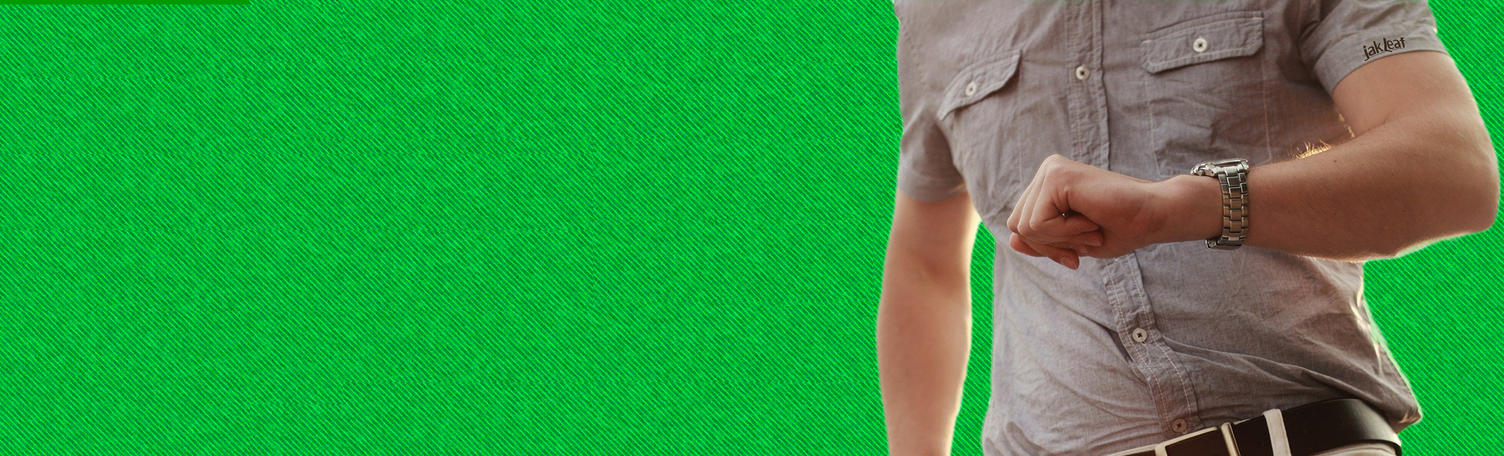
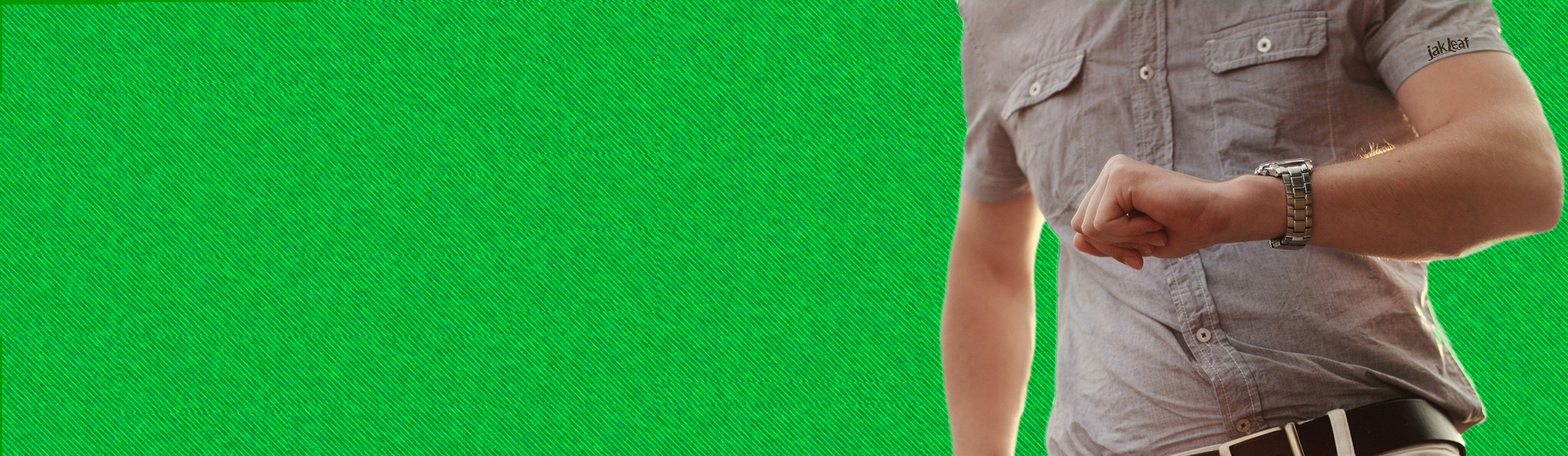
updated

diff --git a/index.html b/index.html
@@ -86,7 +86,7 @@
                             <div class="slide-caption div-cell">
                                 <div class="container">
                                     <div class="slide-caption-inner">
-                                   <img src="assets/img/includes/banner-min.png" alt="Responsive image" class="img-responsive slide-subtitle">
+                                    <img src="assets/img/includes/banner-min.png" alt="Responsive image" class="img-fluid">
                                 </div>
                             </div>
                         </div>
